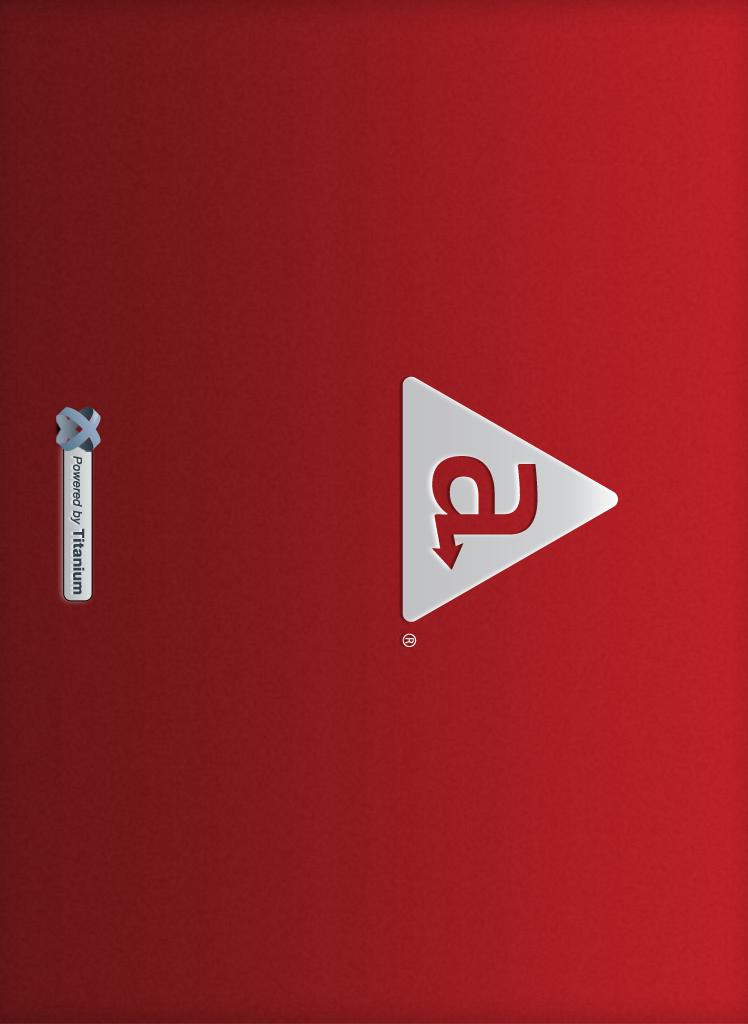
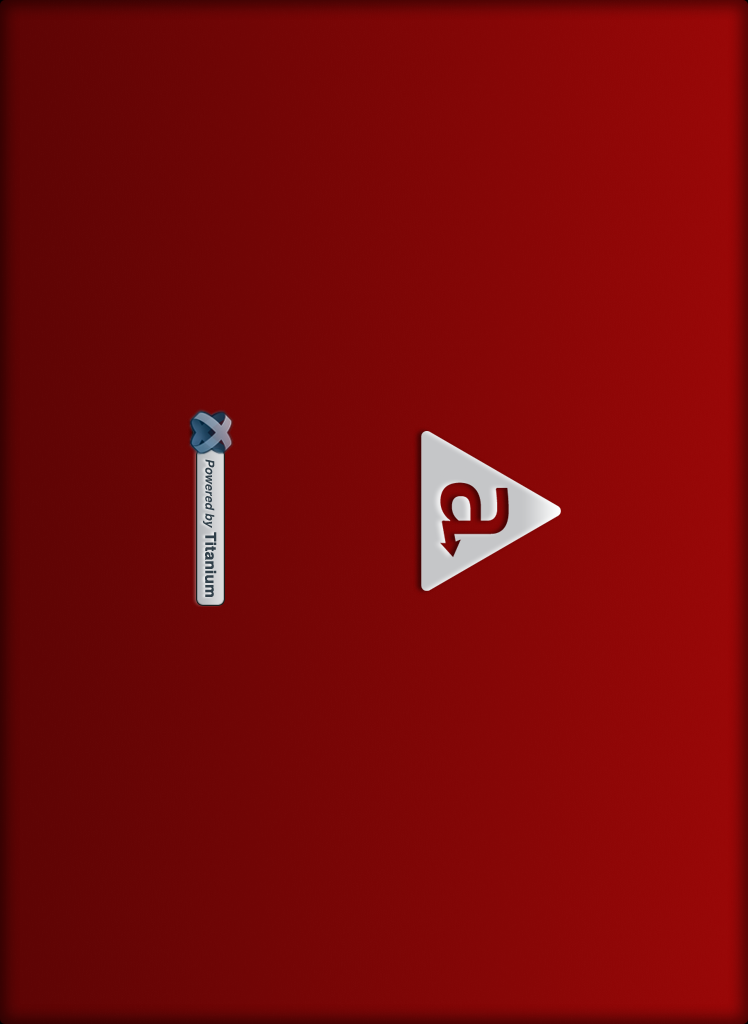
[TIMOB-7944] Fixed apple startup screens.

diff --git a/mobileweb/splash/splash.css b/mobileweb/splash/splash.css
@@ -38,3 +38,13 @@
 	bottom: 15%;
 	width: 200px;
 }
+
+@media all and (min-height: 699px) {
+	#splash:before {
+		top: 25%;
+	}
+
+	#splash:after {
+		bottom: 25%;
+	}
+}
